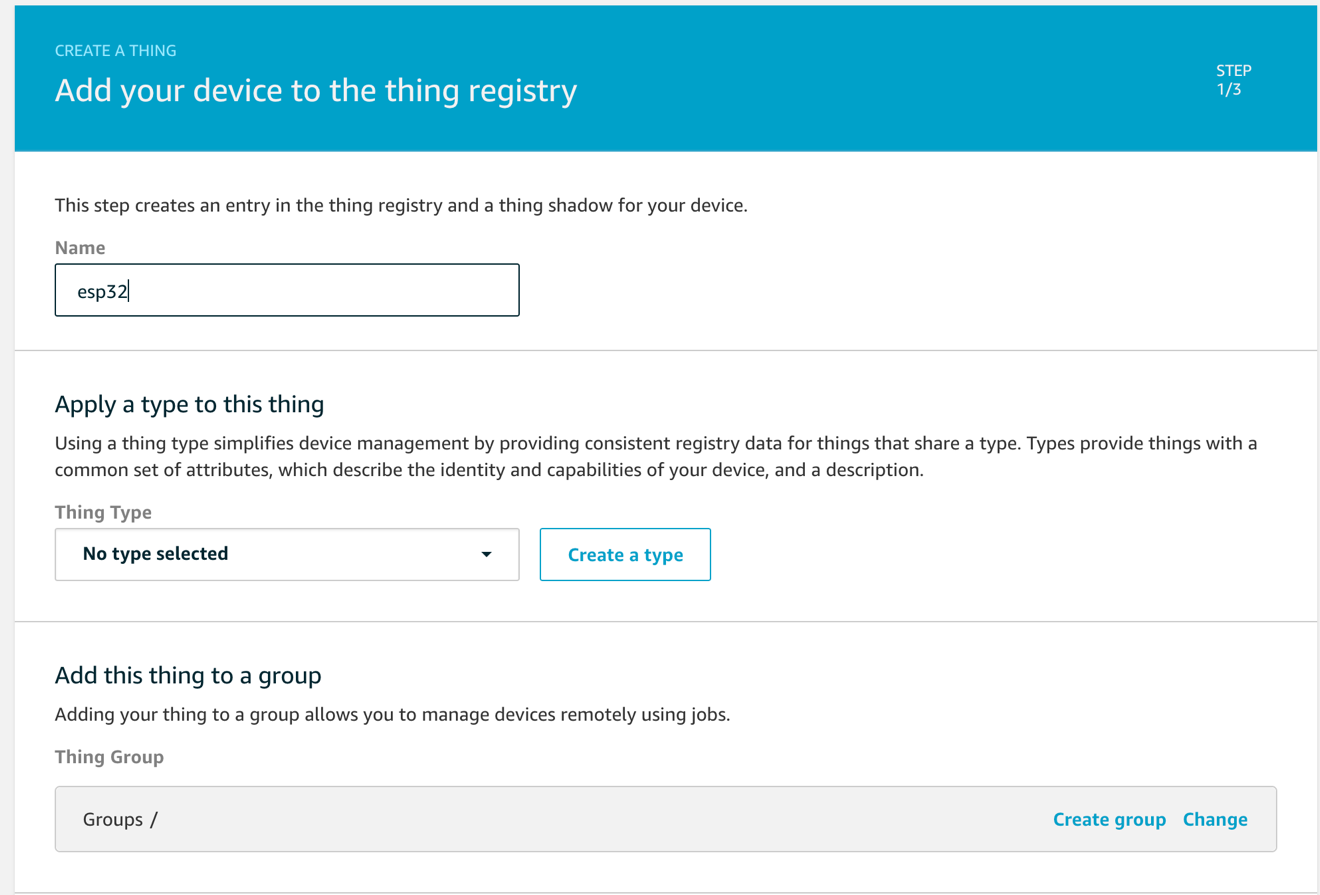
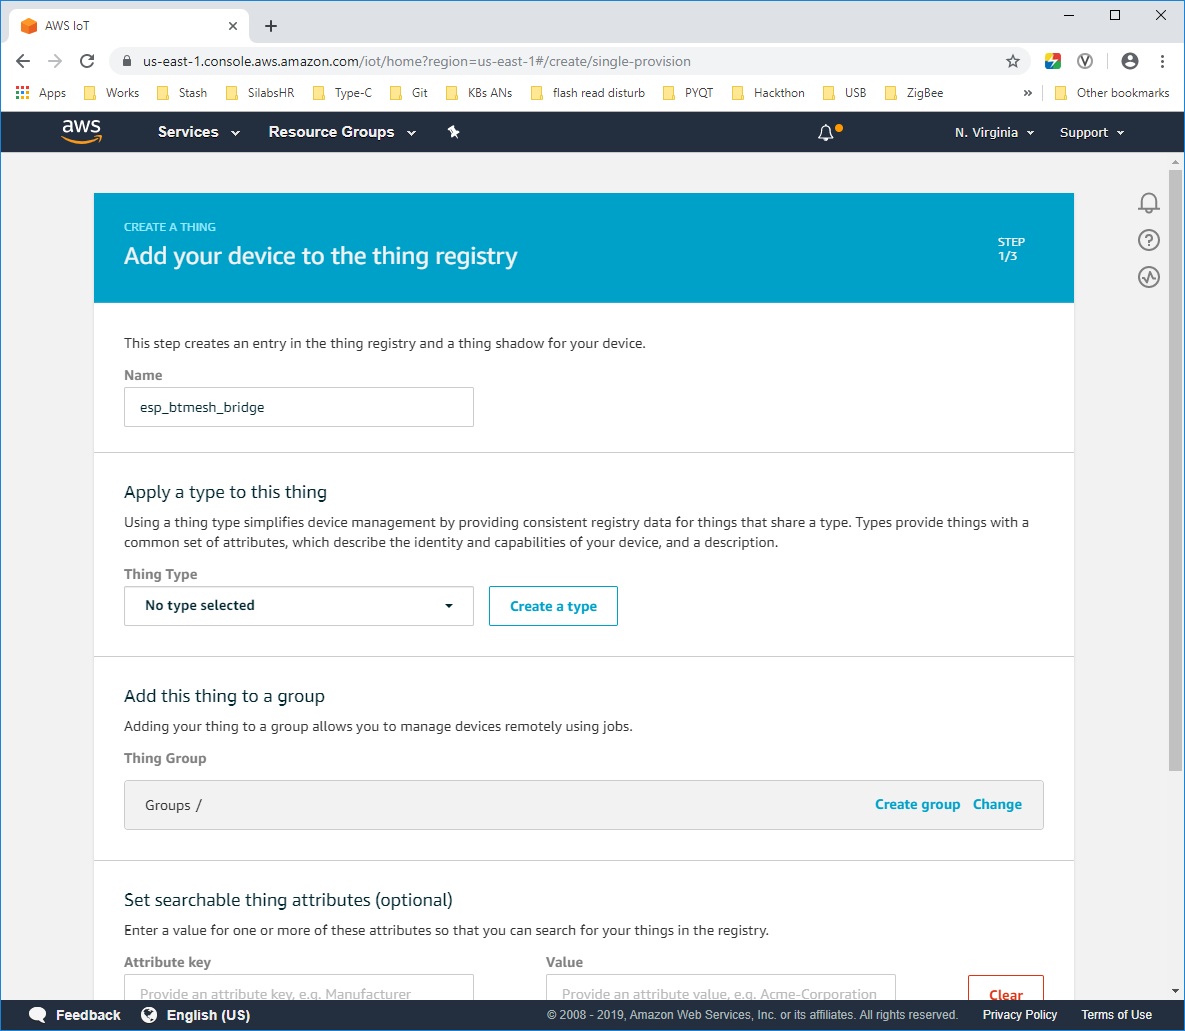
[DOC IMP] Update the documentation and replace the pictures with gif
Update the documentation and replace the pictures with gif

diff --git a/Alexa-voice-controlled-Bluetooth-mesh-network.md b/Alexa-voice-controlled-Bluetooth-mesh-network.md
@@ -215,71 +215,9 @@ def respond_brightnessControl_dir(request):
 
 For instance, a brightness controlling directive for light could be executed and responded by the function above. The lambda function will first analyze the directive, extract the information such as the ```endpoint_id```, the ```correlation_token``` (which is used in response to Alexa), and the specific actions to be done. Then the lambda function will access to the IoT core, update the corresponding attribute information on the appointed virtual device using ```update_thing_shadow``` function. If the updating action is done successfully, lambda will give an acknowledging response to Alexa; else it will give an ```ErrorResponse```.  
 
-As mentioned above, the **Lambda function** is the place to hold **Alexa skill**. The codes in the lambda function are basically the essence of the Alexa skill. However, to associate a Lambda function and an Alexa smart home skill, several steps need to be done.
-
-Firstly, create an Alexa smart home skill on [Alexa developer console](https://developer.amazon.com/alexa/console/ask/create-new-skill). 
-https://developer.amazon.com/alexa/console/ask/create-new-skill
-* Fill the Skill name, for instance, silabs_apac_alexa_btmesh_demo
-* Select the “Smart Home” and click “Create skill” button in the top right of this page.
-
-<div align="center">
-  <img src="./images/create_a_new_skill.png">
-</div>
-
-<div align="center">
-  <img src="./images/create_a_new_skill_2.png">
-</div>
+As mentioned above, the **Lambda function** is the place to hold **Alexa skill**. The codes in the lambda function are basically the essence of the Alexa skill. However, to associate a Lambda function and an Alexa smart home skill, several steps need to be done. Please see the section [Replication the project](#replication-the-project) for the detailed steps for replicating this project on your end.
 
 
-At the Alexa console, the “Default endpoint” should be set as the endpoint of the lambda function. 
-Also, the skill ID should also be set on the lambda function. Therefore, the skill is associated with the lambda function.
-
-<div align="center">
-  <img src="./images/fill_default_endpoint_info.png">
-</div>   
-   
-
-<div align="center">
-  <img src="./images/lambda_function_adding_alexa_smart_home_trigger.png">
-  <center> <b>Figure: Lambda function adding Alexa smart home trigger</b> </center>
-</div>  
-
-After mutual association, the second step would be account linking. On the Alexa console, click on the account linking option, input the authorization URI and the access token URI as shown below.
-
-<div align="center">
-  <img src="./images/account_linking.png">
-  <center> <b>Figure: Account linking</b> </center>
-</div>  
-
-The account linking in this project is using Login with Amazon(LWA), which gives the log in the authorization right to Amazon. If a third-platform is used to communicate with Alexa, the account linking must be set using Aouth2.0. Because this project doesn’t have a device cloud, so here we just use LWA.
-Amazon console also supports the skill-testing. Click on the “Test” option; another interface comes out.
-
-<div align="center">
-  <img src="./images/skill_test.png">
-  <center> <b>Figure: Skill-testing</b> </center>
-</div>  
-
-The developer can choose either typing or using JSON formatted directive to test the Alexa skill. It simulates a real echo plus speaker to send the directives to the server where holding the Alexa skill.
-For example, if the user type or say “turn on my light”, the Alexa server will send a turn-on directive to the lambda(the skill holder server).
-
-<div align="center">
-  <img src="./images/test_turn_on_a_light.png">
-  <center> <b>Figure: Turn on a light</b> </center>
-</div>  
-
-<div align="center">
-  <img src="./images/test_turn_on_jSON_directive.png">
-  <center> <b>Figure: TurnOn JSON directive</b> </center>
-</div>  
-
-Then the lambda function will handle the directive and give a response.
-
-<div align="center">
-  <img src="./images/test_turn_on_jSON_directive_response.png">
-  <center> <b>Figure: TurnOn response</b> </center>
-</div>  
-
-The keywords “event” and “directive” on the top of the JSON file marks what the message is and where does the message from.
 Lambda function:
 As introduced before, the **lambda function** is the place holding Alexa skills. Every “directive” is processed and handled in the lambda function. It is quite complex to set up a lambda function, the detailed steps to set up a lambda function can be found [here](https://docs.aws.amazon.com/lambda/latest/dg/getting-started.html), and the Chinese version documentation is available [here](https://docs.aws.amazon.com/zh_cn/lambda/latest/dg/getting-started.html).
 The lambda function has multiple servers in different areas of the world. However, some of them don’t support Alexa smart home skills. This project chooses **US East(N.Virgina)** server to hold the skill.
@@ -389,8 +327,14 @@ In this section, a step-by-step instruction will be provided to the reader to re
 * 4. Any COM port monitor tool (Tera Term)  
 
 ## Procedures:
-The picture below illustrates the block diagram of controlling Physical Device (that is Bluetooth Mesh device in this project) via Amazon Echo. We will split the procedures as few parts below.
+The picture below illustrates the block diagram of controlling Physical Device (that is Bluetooth Mesh devices in this project) via Amazon Echo. We will split the procedures as several parts below.
+<div align="center">
+  <img src="./images/replicate_step0.png">
+</div>  
+</br>
+
 * [Configure the AWS IoT core settings](#configure-the-aws-iot-core-settings)
+* [Create Alexa Skill](#create-alexa-skill)
 * [Lambda function](#lambda-function)
 * [Download and set up freeRTOS SDK on ESP32](#download-and-set-up-freertos-sdk-on-esp32)
 
@@ -401,38 +345,33 @@ The picture below illustrates the block diagram of controlling Physical Device (
 </br>
 
 1. Setting up your AWS Account and Permissions [EN](https://docs.aws.amazon.com/freertos/latest/userguide/freertos-account-and-permissions.html) | [CN](https://docs.aws.amazon.com/zh_cn/freertos/latest/userguide/freertos-account-and-permissions.html), this step gives you right to access AWS IoT console
-2. Log into [AWS IoT console](https://us-east-1.console.aws.amazon.com/iot/home?region=us-east-1#/dashboard), open the services and choose **N.Virginia** as the server. Because some of the necessary features (IoT Core, Amazon FreeRTOS) are only supported on this server, so it's recommended to switch this server, and continue the following steps.
+2. Log into [AWS IoT console](https://us-east-1.console.aws.amazon.com/iot/home?region=us-east-1#/dashboard), open the services and choose **N.Virginia** as the server. Because some of the necessary features (IoT Core, Amazon FreeRTOS, etc.) are only supported on this server, so it's recommended to choose this server, and continue the following steps.
 
-Below is the screenshot if you log into the AWS IoT console successfully.
+Navigate to the **IoT Core Service**, below is the screenshot if you log into the AWS IoT console successfully.
 
 <div align="center">
-  <img src="./images/aws_iot_console.png">
+  <img src="./images/login_aws_iot_console.gif">
   <center> <b>Figure: AWS IoT console</b> </center>
 </div>  
 
-3. Create a thing called “esp32” on your AWS console: 
+3. Create a thing called “esp32_btmesh_bridge” on your AWS console: 
 click Manage -> Thing -> Register a thing -> Create -> Create a Single thing -> Create certificate -> Download the certificate and Activate. 
 **Note**: Carefully preserve the thing certificates downloaded. 
 
 <div align="center">
-  <img src="./images/create_a_thing.png">
+  <img src="./images/create_a_thing.gif">
   <center> <b>Figure: Create a thing</b> </center>
 </div>  
 </br>
 
+4.	Go back to the console, open your thing “esp32_btmesh_bridge”. Click Security -> Your certificate -> Policies -> Actions -> Attach Policy. If you have a policy, change it to. If not, please refer to next step and then back to here.
 <div align="center">
-  <img src="./images/name_the_thing_as_esp32.png">
-  <center> <b>Figure: Name the thing as esp32</b> </center>
+  <img src="./images/attach_policy_to_ting.gif">
+  <center> <b>Figure: Attach Policy</b> </center>
 </div>  
 </br>
 
-<div align="center">
-  <img src="./images/certificate_created.png">
-</div>  
-</br>
-
-4.	Go back to the console, open your thing “esp32”. Click Security -> Your certificate -> Policies -> Actions -> Attach Policy, if you have a policy, change it to:
-5.	And also don’t forget to modify the “Resource” as the lambda of yours.
+5.	Please don’t forget to modify the “Resource” of the policy as the lambda of yours.
 
 ```
 {
@@ -441,47 +380,48 @@ click Manage -> Thing -> Register a thing -> Create -> Create a Single thing -> 
     {
       "Effect": "Allow",
       "Action": "iot:Connect",
-      "Resource": "arn:aws:iot:us-east-1:330321474979:*"
+      "Resource": "arn:aws:iot:us-east-1:879362360571:*"
     },
     {
       "Effect": "Allow",
       "Action": "iot:Publish",
-      "Resource": "arn:aws:iot:us-east-1:330321474979:*"
+      "Resource": "arn:aws:iot:us-east-1:879362360571:*"
     },
     {
       "Effect": "Allow",
       "Action": "iot:Subscribe",
-      "Resource": "arn:aws:iot:us-east-1:330321474979:*"
+      "Resource": "arn:aws:iot:us-east-1:879362360571:*"
     },
     {
       "Effect": "Allow",
       "Action": "iot:Receive",
-      "Resource": "arn:aws:iot:us-east-1:330321474979:*"
+      "Resource": "arn:aws:iot:us-east-1:879362360571:*"
     }
   ]
 }
 ```
 If you don’t have a policy, go back to console -> secure -> policy -> create You can create a policy to then attach it.
-<div align="center">
-  <img src="./images/certificate.png">
-  <center> <b>Figure: Certificate</b> </center>
-</div>  
 
 <div align="center">
-  <img src="./images/create_a_plicy_1.png">
-</div>  
-
-<div align="center">
-  <img src="./images/create_a_plicy_2.png">
+  <img src="./images/create_a_policy.gif">
   <center><b>Figure: Create a policy in this interface</b></center>
 </div>  
+</br>
 
-6.	Click on the Manage -> Thing -> esp32 -> Shadow -> Edit, paste the initial shadow document. The initial shadow document must have the same desired and reported section, if you want to change the shadow document, remember to change the shadow document template on the esp32 board and Alexa skill, otherwise the program won’t run correctly.
+After creating the policy, the UI will similar like below.
 
 <div align="center">
-  <img src="./images/shadow_document.png">
+  <img src="./images/create_a_policy_result.png">
+</div>  
+</br>
+
+6.	Click on the Manage -> Thing -> esp32_btmesh_bridge -> Shadow -> Edit, paste the initial shadow document below. The initial shadow document must have the same desired and reported section, if you want to change the shadow document, remember to change the shadow document template on the esp32 board and Alexa skill, otherwise the program won’t run correctly.
+
+<div align="center">
+  <img src="./images/shadow_document.gif">
   <center><b>Figure: Shadow document</b></center>
 </div>  
+</br>
 
 Below is the initial Shadow document utilized in this project.
 ```
@@ -551,6 +491,7 @@ Below is the initial Shadow document utilized in this project.
 
 7.	Use the test function on AWS IoT console to check if the rule that using the MQTT works or not.
 Click on the “Interact” option, choose the corresponding topic which represents the operations that you wish to do, subscribe to the topic. Below are the all available MQTT topics for subscribe or publish. For example, you can publish the message to the topic ```$aws/things/esp32/shadow/update``` to update the thing shadow, and subscribe to the MQTT topics ```$aws/things/esp32/shadow/update/accepted``` and ```$aws/things/esp32/shadow/update/documents``` for the accepted messages, also you can monitor the topic ```$aws/things/esp32/shadow/update/rejected``` for debugging purpose. If the message was rejected, you can get the error code by subscribing the ```$aws/things/esp32/shadow/update/rejected``` topic.
+Receiving the MQTT message via the subscribing topic ```$aws/things/esp32/shadow/update/accepted``` means that the thing shadow works now.
 
 <div align="center">
   <img src="./images/topic_to_subscribe.png">
@@ -559,7 +500,7 @@ Click on the “Interact” option, choose the corresponding topic which represe
 </br>  
 
 <div align="center">  
-  <img src="./images/subscribe_the_topic_and_publish_content_you_want.png">  
+  <img src="./images/subscribe_the_topic_and_publish_content_you_want.gif">  
   <center><b>Figure: Subscribe the topic and publish content you want</b></center>  
 </div>  
 </br>  
@@ -617,16 +558,35 @@ You can find an example shadow document [here](https://docs.aws.amazon.com/iot/l
 }
 ```
 
-###	Alexa skill
-1.	Log into the [Alexa developer console](https://developer.amazon.com/alexa/console/ask) using your amazon account.
+###	Create Alexa Skill
+1.	Log into the [Alexa developer console](https://developer.amazon.com/alexa/console/ask/create-new-skill) with your amazon account.
 2.	Choose Create skill->Smart Home->Enter the skill name->Create. Once you created the Smart Home Skill, <span id = "YourSkillID"><font color="red">Your Skill ID</font></span> will be assigned that will used by Lambda function.
 
 <div align="center">
-  <img src="./images/alexa_smart_home_skill_create.png">
-</div> 
+  <img src="./images/create_a_new_skill.png">
+</div>
+</br>
 
-3.	After you created the skill, the first step is to setup the account linking. Smart Home skills require that a user completes account linking during skill enablement. This step asks customers to associate their device cloud account with your smart home skill. You will need an OAuth provider in order to implement this process. If you don't already have an OAuth provider, you can use Login with Amazon (LWA).
-4.	Setup the LWA:
+<div align="center">
+  <img src="./images/create_a_new_skill_2.png">
+</div>
+</br>
+
+At the Alexa console, the “Default endpoint” should be set as the endpoint of your lambda function. Also, the skill ID should also be set on the lambda function. Therefore, the skill is associated with the lambda function.
+
+<div align="center">
+  <img src="./images/fill_default_endpoint_info.png">
+</div>   
+</br>
+
+<div align="center">
+  <img src="./images/lambda_function_adding_alexa_smart_home_trigger.png">
+  <center> <b>Figure: Lambda function adding Alexa smart home trigger</b> </center>
+</div>  
+
+3.	After you created the skill, the first step is to setup the account linking. Smart Home skills require that a user completes account linking during skill enablement. This step asks customers to associate their device cloud account with your smart home skill. You will need an OAuth provider in order to implement this process. If you don't already have an OAuth provider, you can use Login with Amazon (LWA).  
+
+**Setup the LWA**:  
 * i. Connect to https://developer.amazon.com/login.html and authenticate with your Amazon credentials.
 * ii. Click "Login with Amazon"
 * iii. Click on “Create a New Security Profile”
@@ -658,6 +618,23 @@ You can find an example shadow document [here](https://docs.aws.amazon.com/iot/l
 * xii. Provide Redirect URL's to LWA:
 * xiii. The Configuration page for your Skill lists several Redirect URL's. Open the LWA security profile you created earlier and visit the Web Settings dialog. Provide each of the Redirect URL values from your Skill in the “Allowed Return URLs” field.
 
+
+
+After mutual association, the second step would be account linking. On the Alexa console, click on the account linking option, input the authorization URI and the access token URI as shown below.
+
+<div align="center">
+  <img src="./images/account_linking.png">
+  <center> <b>Figure: Account linking</b> </center>
+</div>  
+
+The account linking in this project is using Login with Amazon(LWA), which gives the log in the authorization right to Amazon. If a third-platform is used to communicate with Alexa, the account linking must be set using Aouth2.0. Because this project doesn’t have a device cloud, so here we just use LWA.
+Amazon console also supports the skill-testing. Click on the “Test” option; another interface comes out.
+
+<div align="center">
+  <img src="./images/skill_test.png">
+  <center> <b>Figure: Skill-testing</b> </center>
+</div>  
+
 <div align="center">
   <img src="./images/config_the_skill_1.png">
 </div>  
@@ -671,6 +648,30 @@ You can find an example shadow document [here](https://docs.aws.amazon.com/iot/l
 <div align="center">
   <img src="./images/skill_configuration_result.png">
 </div>  
+</br>
+
+7. Test your Alexa Skill
+The developer can choose either typing or using JSON formatted directive to test the Alexa skill. It simulates a real echo plus speaker to send the directives to the server where holding the Alexa skill.
+For example, if the user type or say “turn on my light”, the Alexa server will send a turn-on directive to the lambda(the skill holder server).
+
+<div align="center">
+  <img src="./images/test_turn_on_a_light.png">
+  <center> <b>Figure: Turn on a light</b> </center>
+</div>  
+
+<div align="center">
+  <img src="./images/test_turn_on_jSON_directive.png">
+  <center> <b>Figure: TurnOn JSON directive</b> </center>
+</div>  
+
+Then the lambda function will handle the directive and give a response.
+
+<div align="center">
+  <img src="./images/test_turn_on_jSON_directive_response.png">
+  <center> <b>Figure: TurnOn response</b> </center>
+</div>  
+
+The keywords “event” and “directive” on the top of the JSON file marks what the message is and where does the message from.
 
 ###	Lambda function:
 Clone the repo https://github.com/sheldon123z/Alexa-esp32freeRTOS-EFR32BG13-Bluetooth-mesh-project.git
